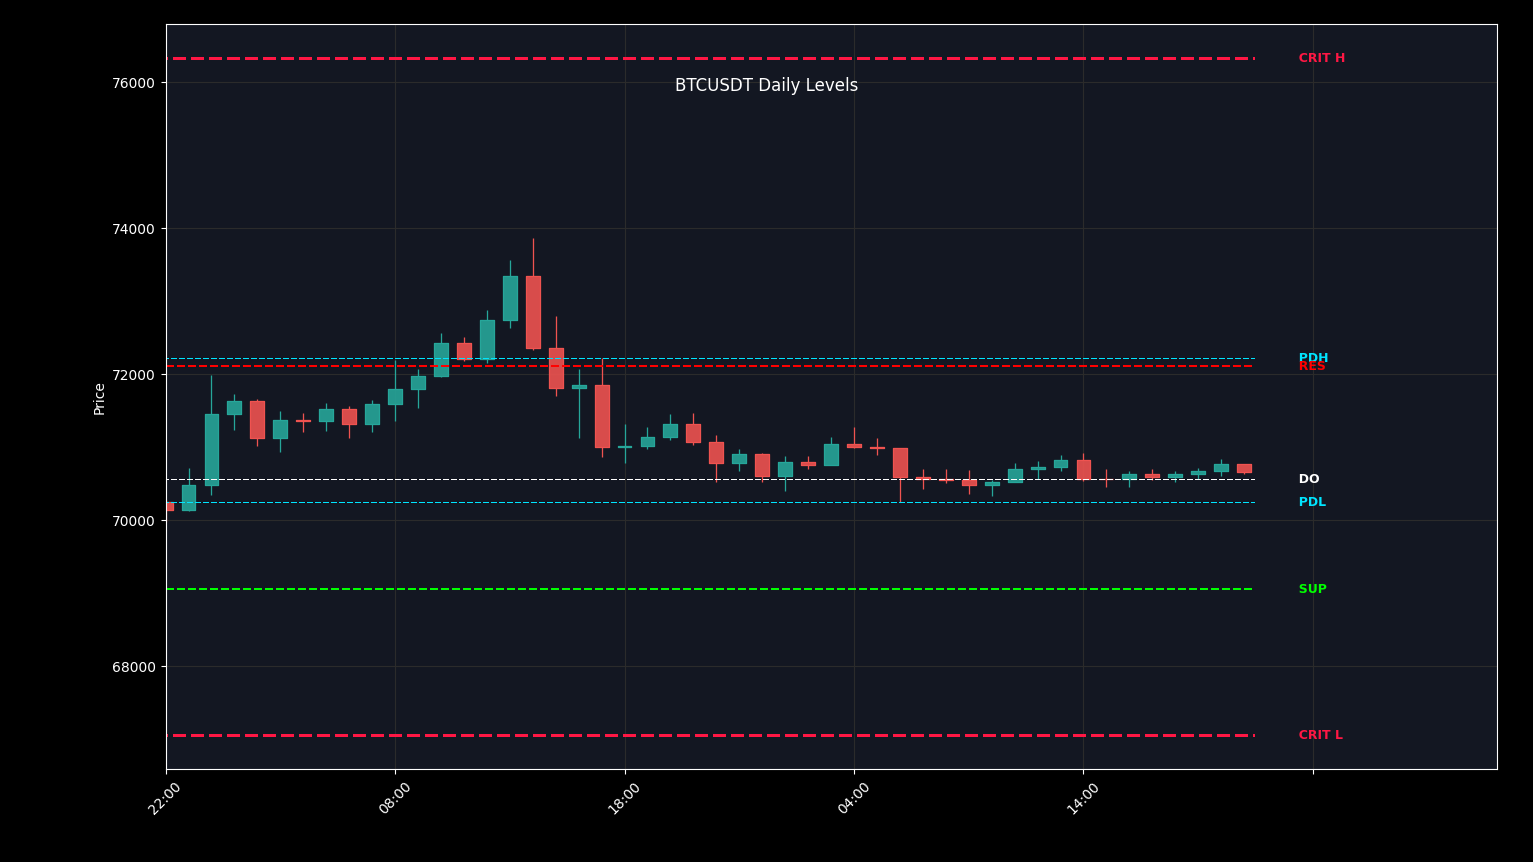
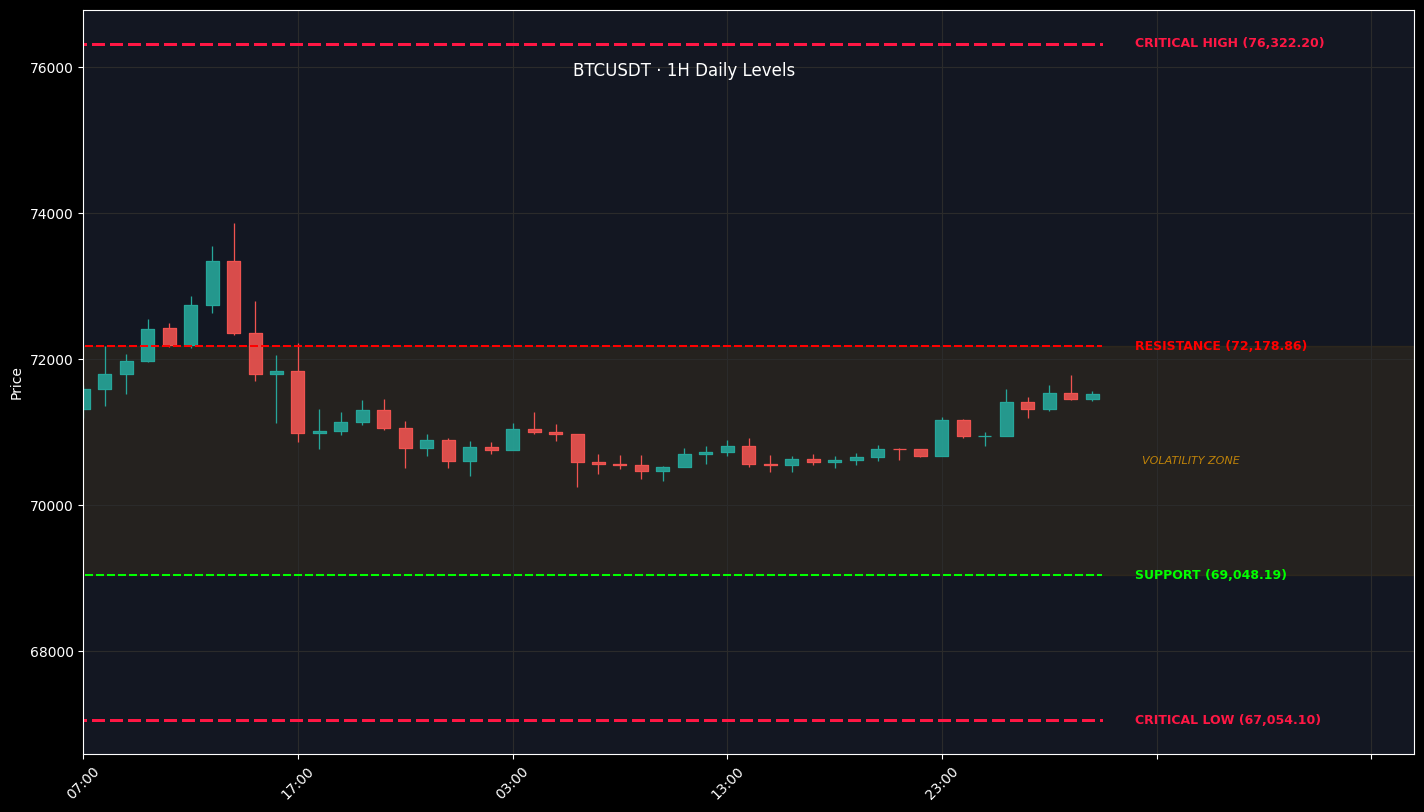
refine chart visuals

Changed region(s): [[0.0, 0.0, 1.0, 0.9852], [0.8034, 0.6773, 0.8961, 0.7389], [0.0309, 0.9544, 0.0618, 0.9852]]

diff --git a/charting.py b/charting.py
@@ -2,9 +2,10 @@
 
 import pandas as pd
 import mplfinance as mpf
+import matplotlib.pyplot as plt
 import os
 
-def generate_daily_levels_chart(df, levels, symbol="BTCUSDT", output_path="daily_chart.png"):
+def generate_daily_levels_chart(df, levels, symbol="BTCUSDT", timeframe="1H", output_path="daily_chart.png"):
     """
     Generate a candlestick chart with daily levels as horizontal lines.
     """
@@ -21,49 +22,31 @@ def generate_daily_levels_chart(df, levels, symbol="BTCUSDT", output_path="daily
     # Required for scaling
     all_values = list(plot_df["High"]) + list(plot_df["Low"])
 
-    # 1. DO (Daily Open) - White
-    if "DO" in levels:
-        val = levels["DO"]
-        hlines.append(val)
-        hcolors.append('#ffffff')
-        hwidths.append(1.0)
-        all_values.append(val)
-    
-    # 2. PDH/PDL (Previous Day High/Low) - Cyan
-    if "PDH" in levels:
-        val = levels["PDH"]
-        hlines.append(val)
-        hcolors.append('#00e5ff')
-        hwidths.append(1.0)
-        all_values.append(val)
-    if "PDL" in levels:
-        val = levels["PDL"]
-        hlines.append(val)
-        hcolors.append('#00e5ff')
-        hwidths.append(1.0)
-        all_values.append(val)
-
-    # 3. Main Resistance / Support (Pump/Dump) - Red/Green
+    # 1. Resistance (Pump) - Red
     if "Pump" in levels:
         val = levels["Pump"]
         hlines.append(val)
-        hcolors.append('#ff0000') # Pure Red
+        hcolors.append('#ff0000')
         hwidths.append(1.5)
         all_values.append(val)
+
+    # 2. Support (Dump) - Green
     if "Dump" in levels:
         val = levels["Dump"]
         hlines.append(val)
-        hcolors.append('#00ff00') # Pure Green
+        hcolors.append('#00ff00')
         hwidths.append(1.5)
         all_values.append(val)
         
-    # 4. Critical High / Low (PumpMax / DumpMax) - Bold Red
+    # 3. Critical High (PumpMax) - Bold Red
     if "PumpMax" in levels:
         val = levels["PumpMax"]
         hlines.append(val)
         hcolors.append('#ff1744')
         hwidths.append(2.5)
         all_values.append(val)
+
+    # 4. Critical Low (DumpMax) - Bold Red
     if "DumpMax" in levels:
         val = levels["DumpMax"]
         hlines.append(val)
@@ -77,9 +60,9 @@ def generate_daily_levels_chart(df, levels, symbol="BTCUSDT", output_path="daily
     padding_y = (ymax - ymin) * 0.05
     ylim = (ymin - padding_y, ymax + padding_y)
 
-    # Perfect Framing: Cut left empty space, add right space for labels
+    # Framing: Cut left, add right space for labels
     num_candles = len(plot_df)
-    xlim = (0, num_candles + 10) # Start exactly at first candle, end 10 units after
+    xlim = (0, num_candles + 14)
 
     # Style
     mc = mpf.make_marketcolors(up='#26a69a', down='#ef5350', edge='inherit', wick='inherit')
@@ -88,12 +71,11 @@ def generate_daily_levels_chart(df, levels, symbol="BTCUSDT", output_path="daily
     hlines_dict = dict(hlines=hlines, colors=hcolors, linestyle='--', linewidths=hwidths)
 
     try:
-        # Use returnfig to add labels
         fig, axlist = mpf.plot(plot_df, 
                                type='candle', 
                                style=s, 
                                hlines=hlines_dict,
-                               title=f"\n{symbol} Daily Levels",
+                               title=f"\n{symbol} · {timeframe.upper()} Daily Levels",
                                ylabel='Price',
                                datetime_format='%H:%M',
                                tight_layout=True,
@@ -104,26 +86,35 @@ def generate_daily_levels_chart(df, levels, symbol="BTCUSDT", output_path="daily
                                xlim=xlim,
                                returnfig=True)
         
-        # Add text labels on the padded right side
         ax = axlist[0]
         label_x = num_candles + 1
-        
+
+        # --- Volatility zone (shaded area between Pump and Dump) ---
+        if "Pump" in levels and "Dump" in levels:
+            ax.axhspan(levels["Dump"], levels["Pump"], 
+                       alpha=0.08, color='#ffab00', zorder=0)
+            # Add VOLATILITY ZONE label in the middle of the shaded area
+            mid_vol = (levels["Pump"] + levels["Dump"]) / 2
+            ax.text(label_x, mid_vol, "  VOLATILITY ZONE", 
+                    color='#ffab00', va='center', fontsize=8, fontstyle='italic', alpha=0.7)
+
+        # --- Full text labels ---
         label_map = {
-            "DO": ("DO", '#ffffff'),
-            "PDH": ("PDH", '#00e5ff'),
-            "PDL": ("PDL", '#00e5ff'),
-            "Pump": ("RES", '#ff0000'),
-            "Dump": ("SUP", '#00ff00'),
-            "PumpMax": ("CRIT H", '#ff1744'),
-            "DumpMax": ("CRIT L", '#ff1744')
+            "Pump": ("RESISTANCE", '#ff0000'),
+            "Dump": ("SUPPORT", '#00ff00'),
+            "PumpMax": ("CRITICAL HIGH", '#ff1744'),
+            "DumpMax": ("CRITICAL LOW", '#ff1744'),
         }
 
         for key, (label, color) in label_map.items():
             if key in levels:
-                ax.text(label_x, levels[key], f"  {label}", 
+                price = levels[key]
+                ax.text(label_x, price, f"{label} ({price:,.2f})", 
                         color=color, va='center', fontsize=9, fontweight='bold')
 
-        fig.savefig(output_path)
+        fig.subplots_adjust(left=0.06, right=0.98)
+        fig.savefig(output_path, bbox_inches='tight', pad_inches=0.1)
+        plt.close(fig)
         return os.path.abspath(output_path)
     except Exception as e:
         print(f"[CHART ERROR] {e}")
